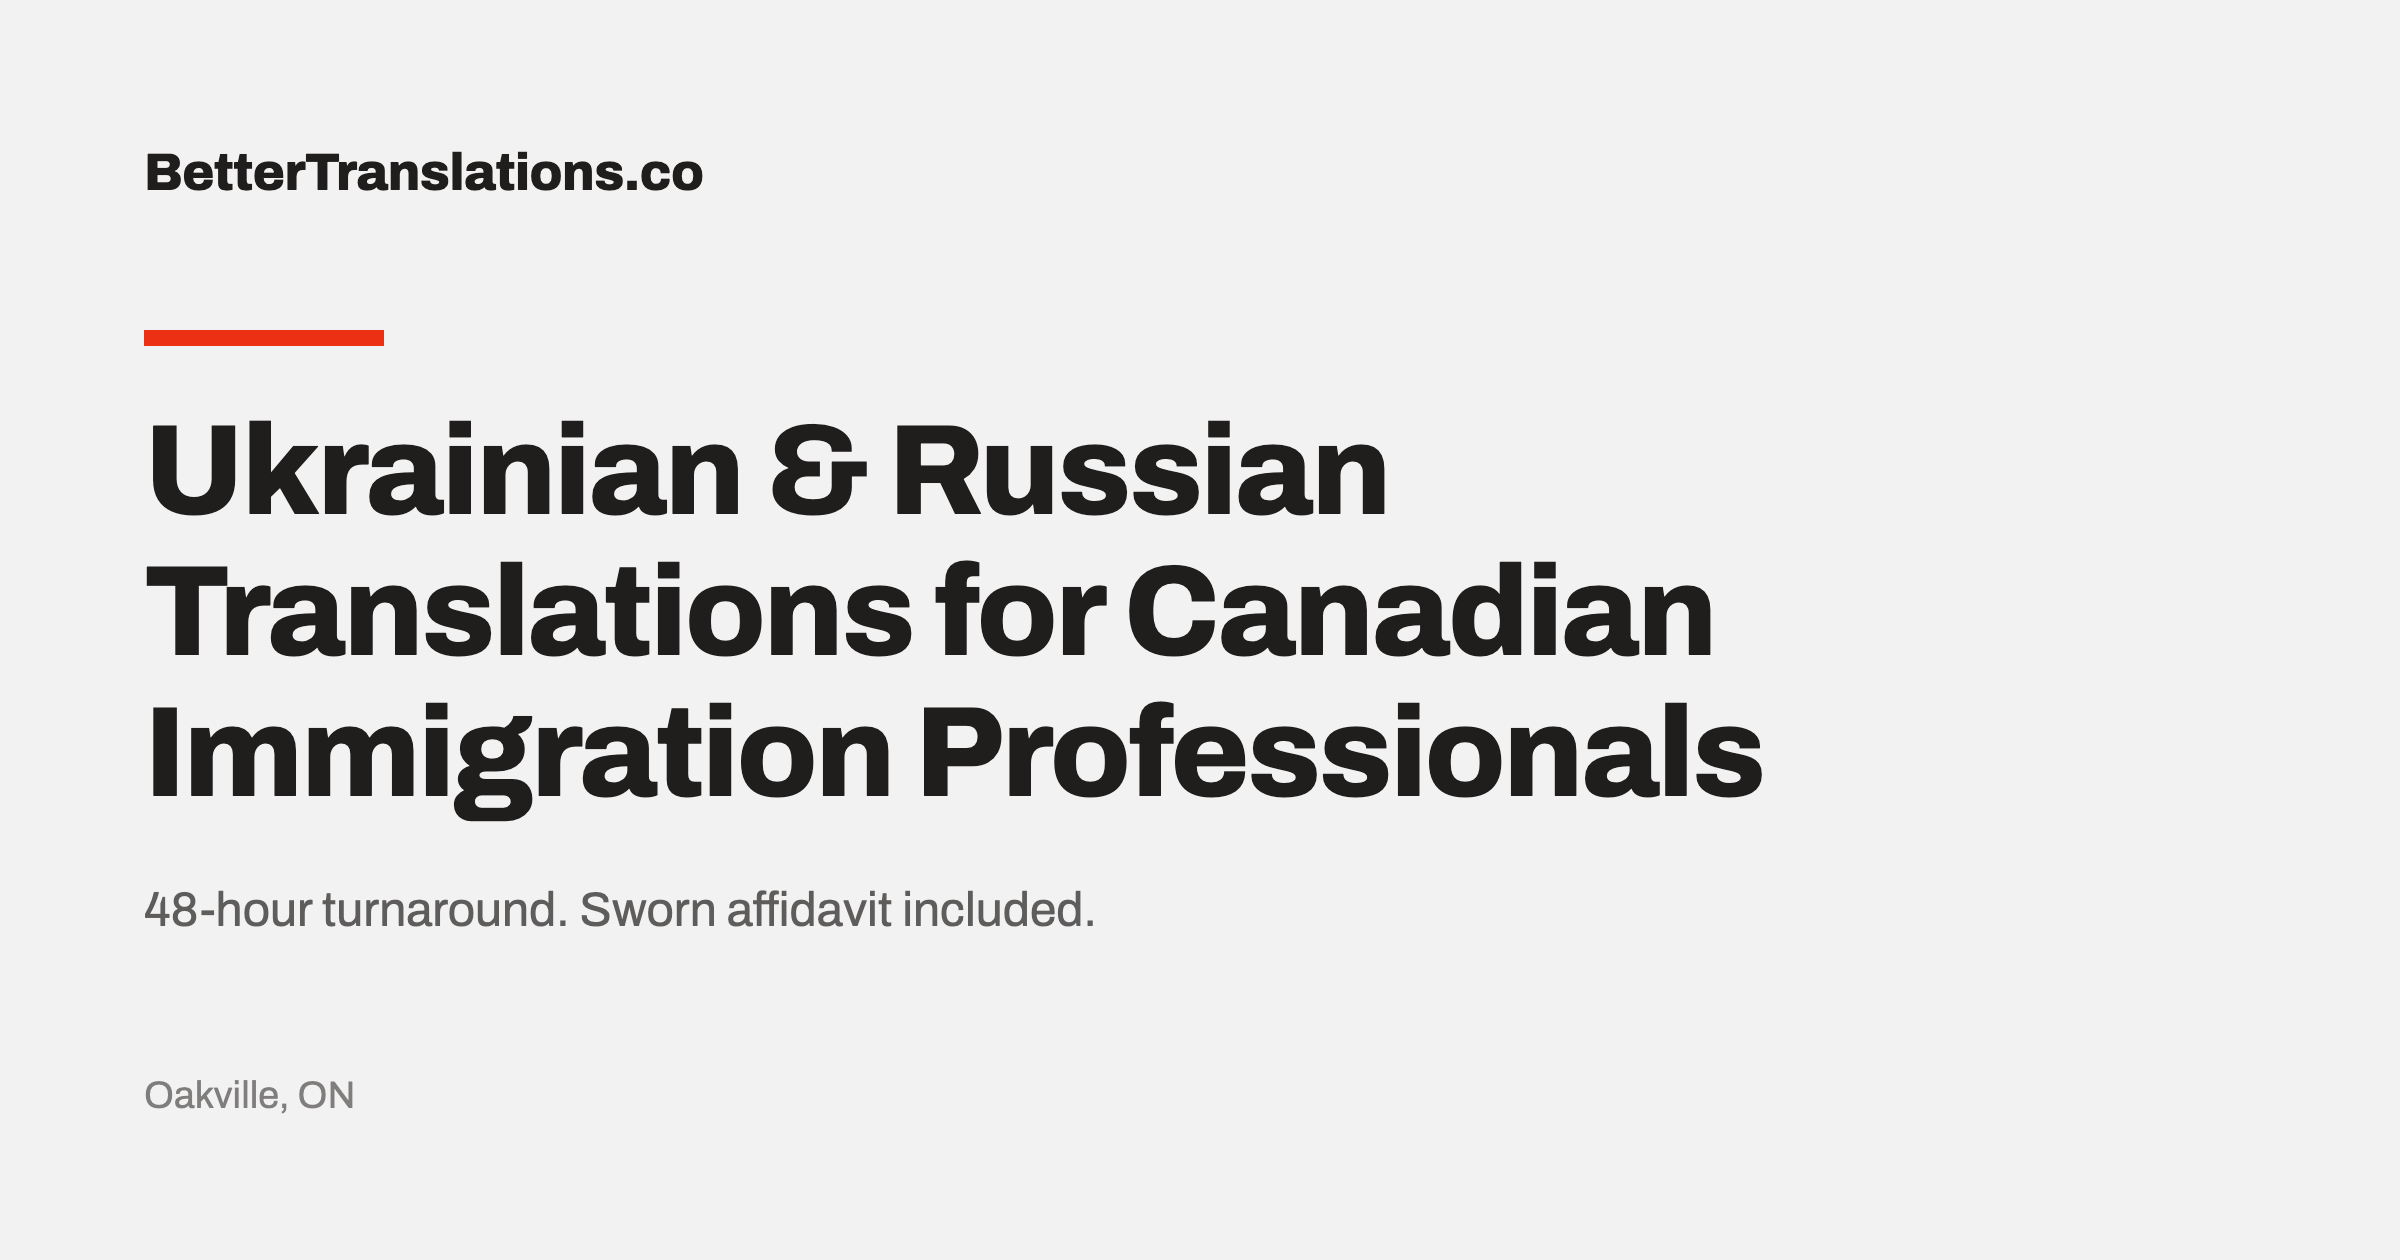
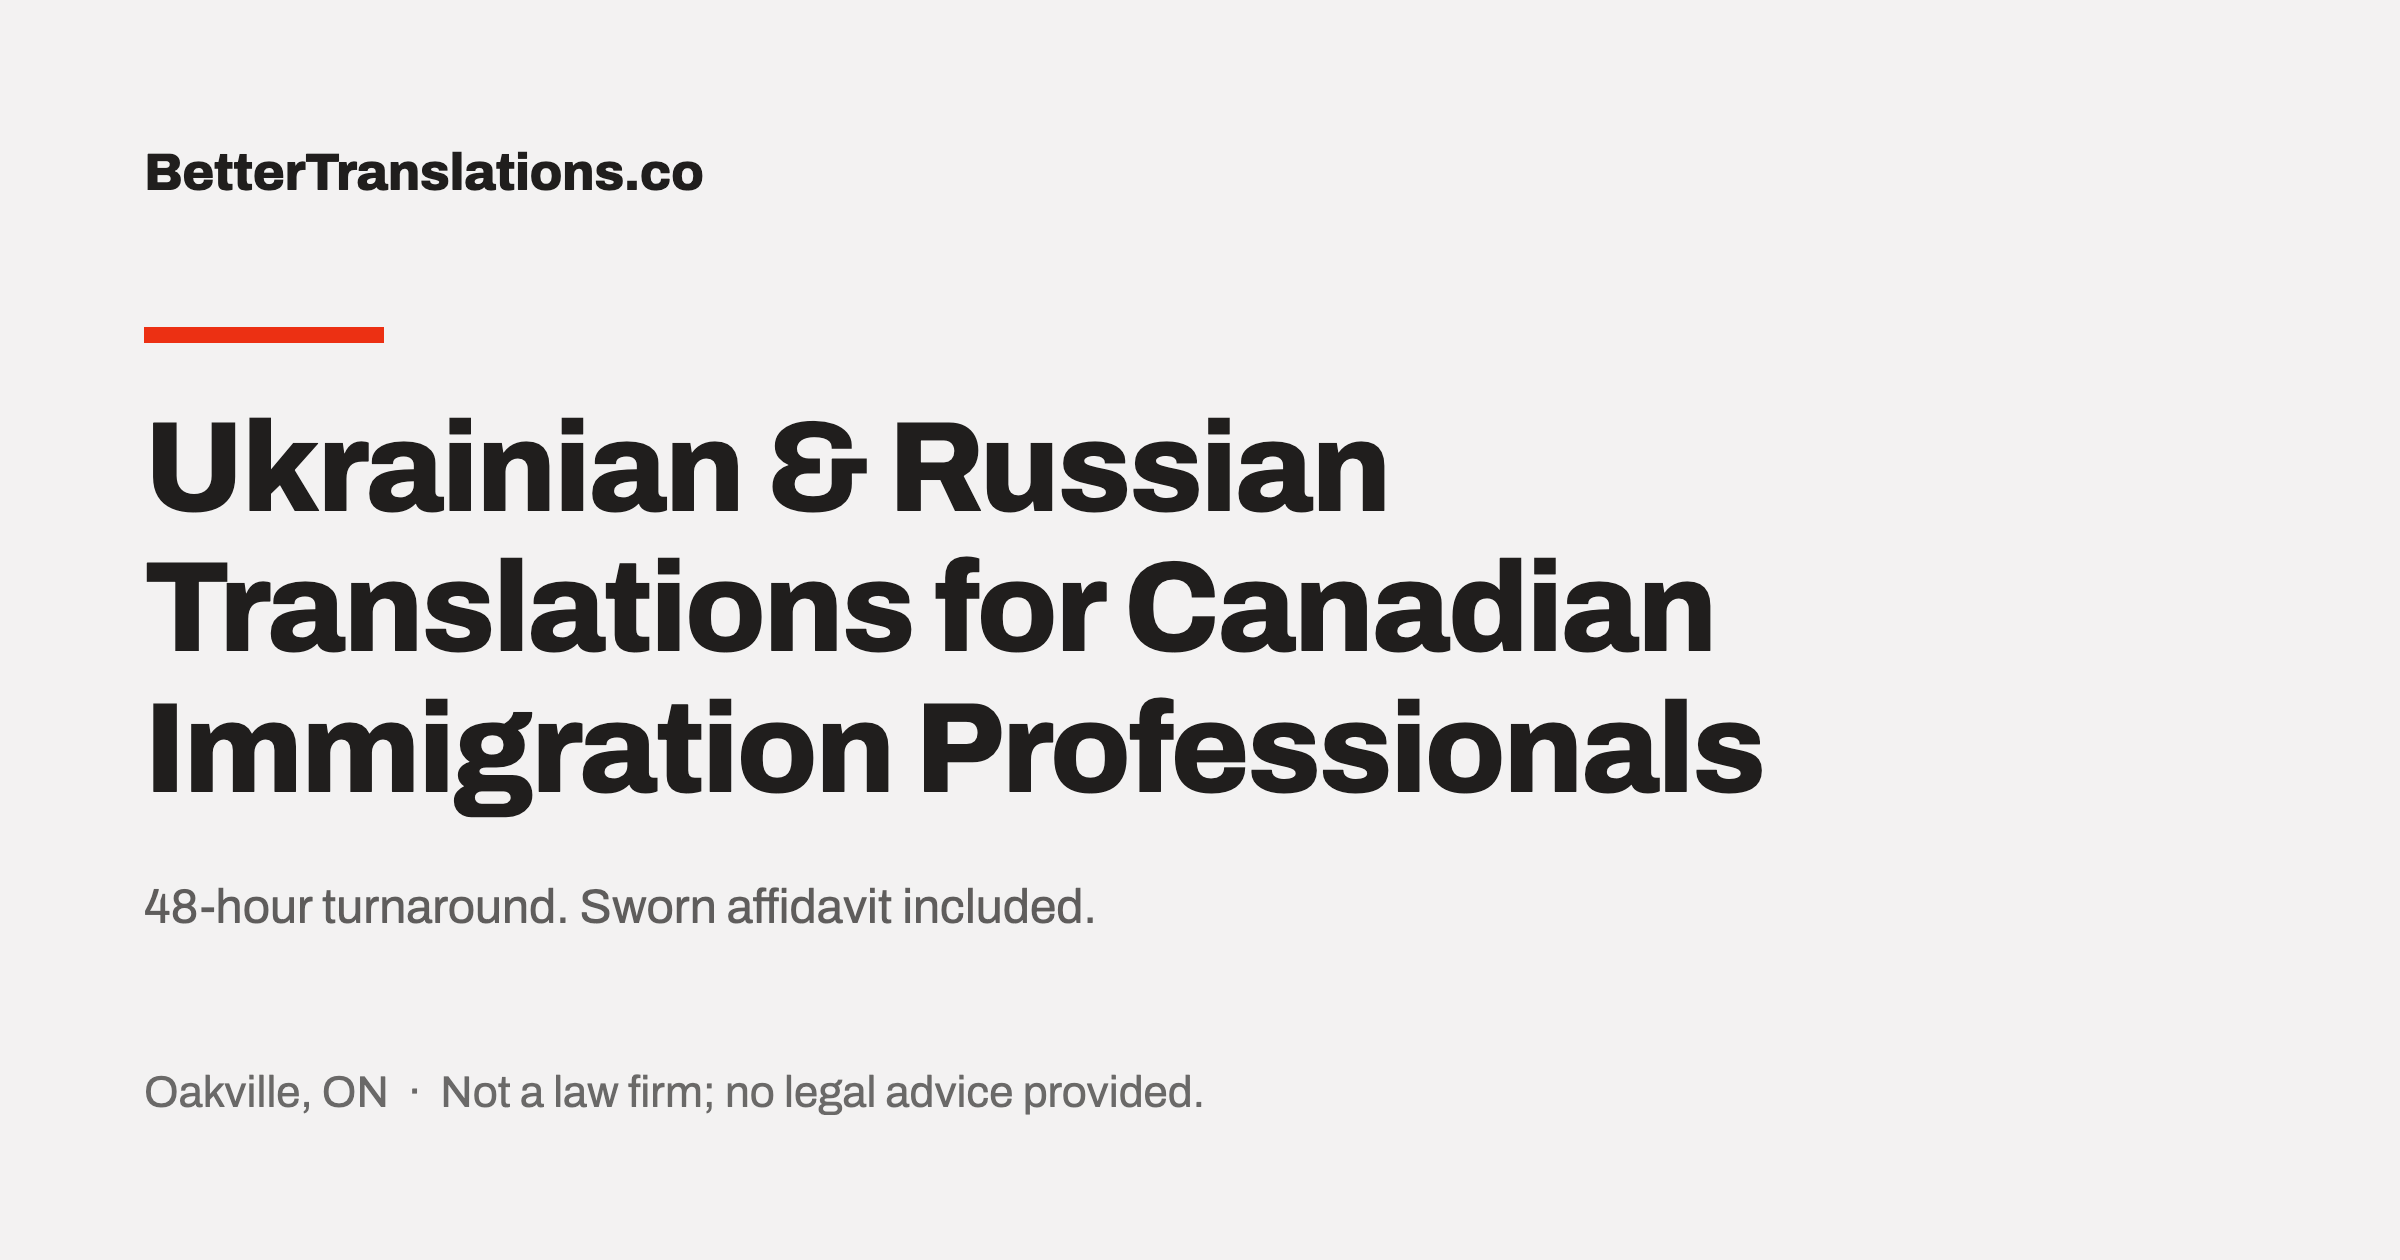
Put the not-a-law-firm disclaimer on the social preview image
The preview card is often the only thing seen - shared into a channel,
read by several people, clicked by one. A disclaimer that only exists
past the click misses most of that audience.

diff --git a/source/og-image.html b/source/og-image.html
@@ -23,8 +23,8 @@ h1 {
   color:color-mix(in srgb, #201e1d 70%, transparent);
 }
 .foot {
-  font-weight:400; font-size:19px;
-  color:color-mix(in srgb, #201e1d 55%, transparent);
+  font-weight:400; font-size:22px;
+  color:color-mix(in srgb, #201e1d 65%, transparent);
 }
 </style></head><body>
   <div class="wordmark">BetterTranslations.co</div>
@@ -33,5 +33,5 @@ h1 {
     <h1>Ukrainian &amp; Russian<br>Translations for Canadian<br>Immigration Professionals</h1>
     <div class="sub">48-hour turnaround. Sworn affidavit included.</div>
   </div>
-  <div class="foot">Oakville, ON</div>
+  <div class="foot">Oakville, ON &nbsp;&middot;&nbsp; Not a law firm; no legal advice provided.</div>
 </body></html>
